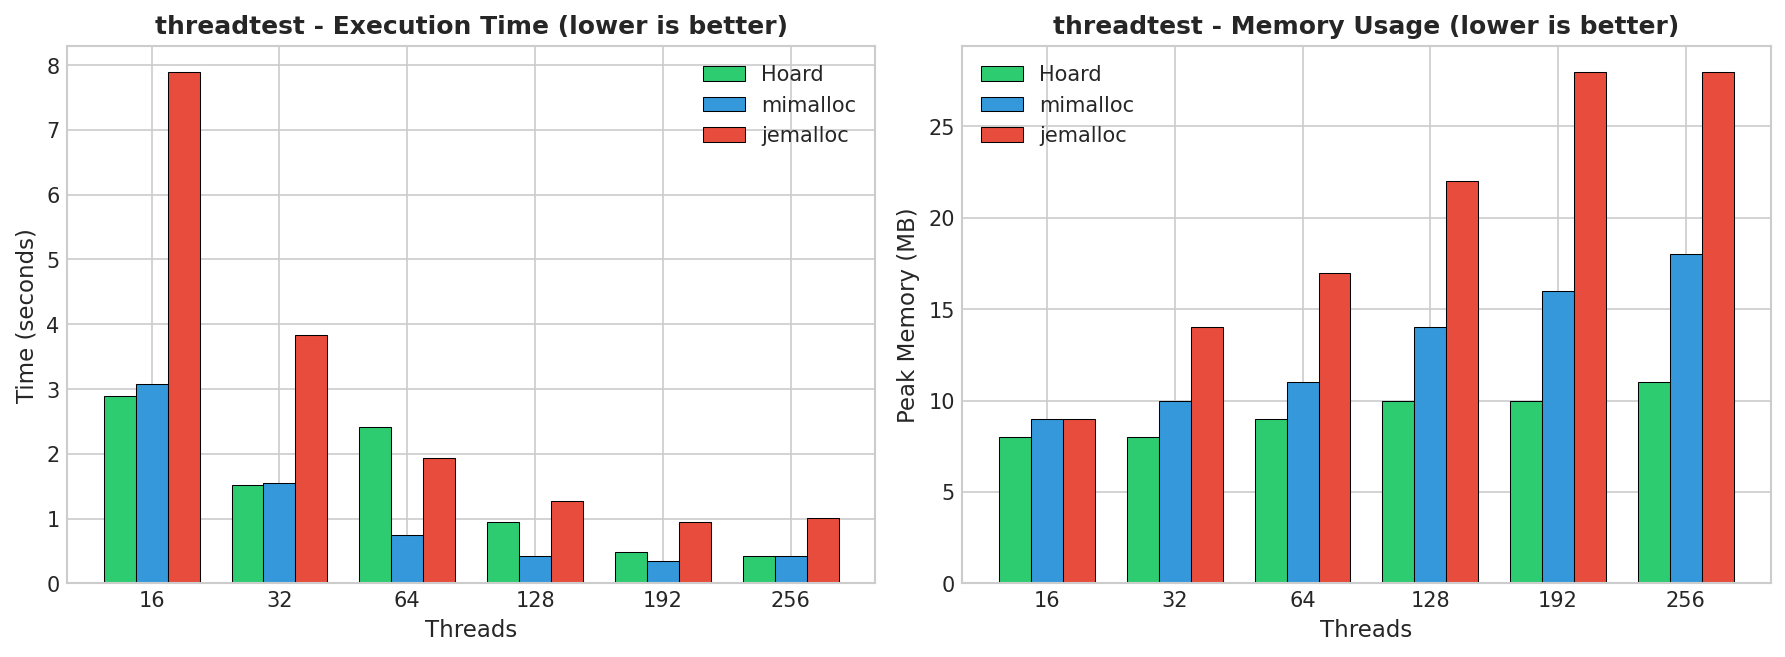
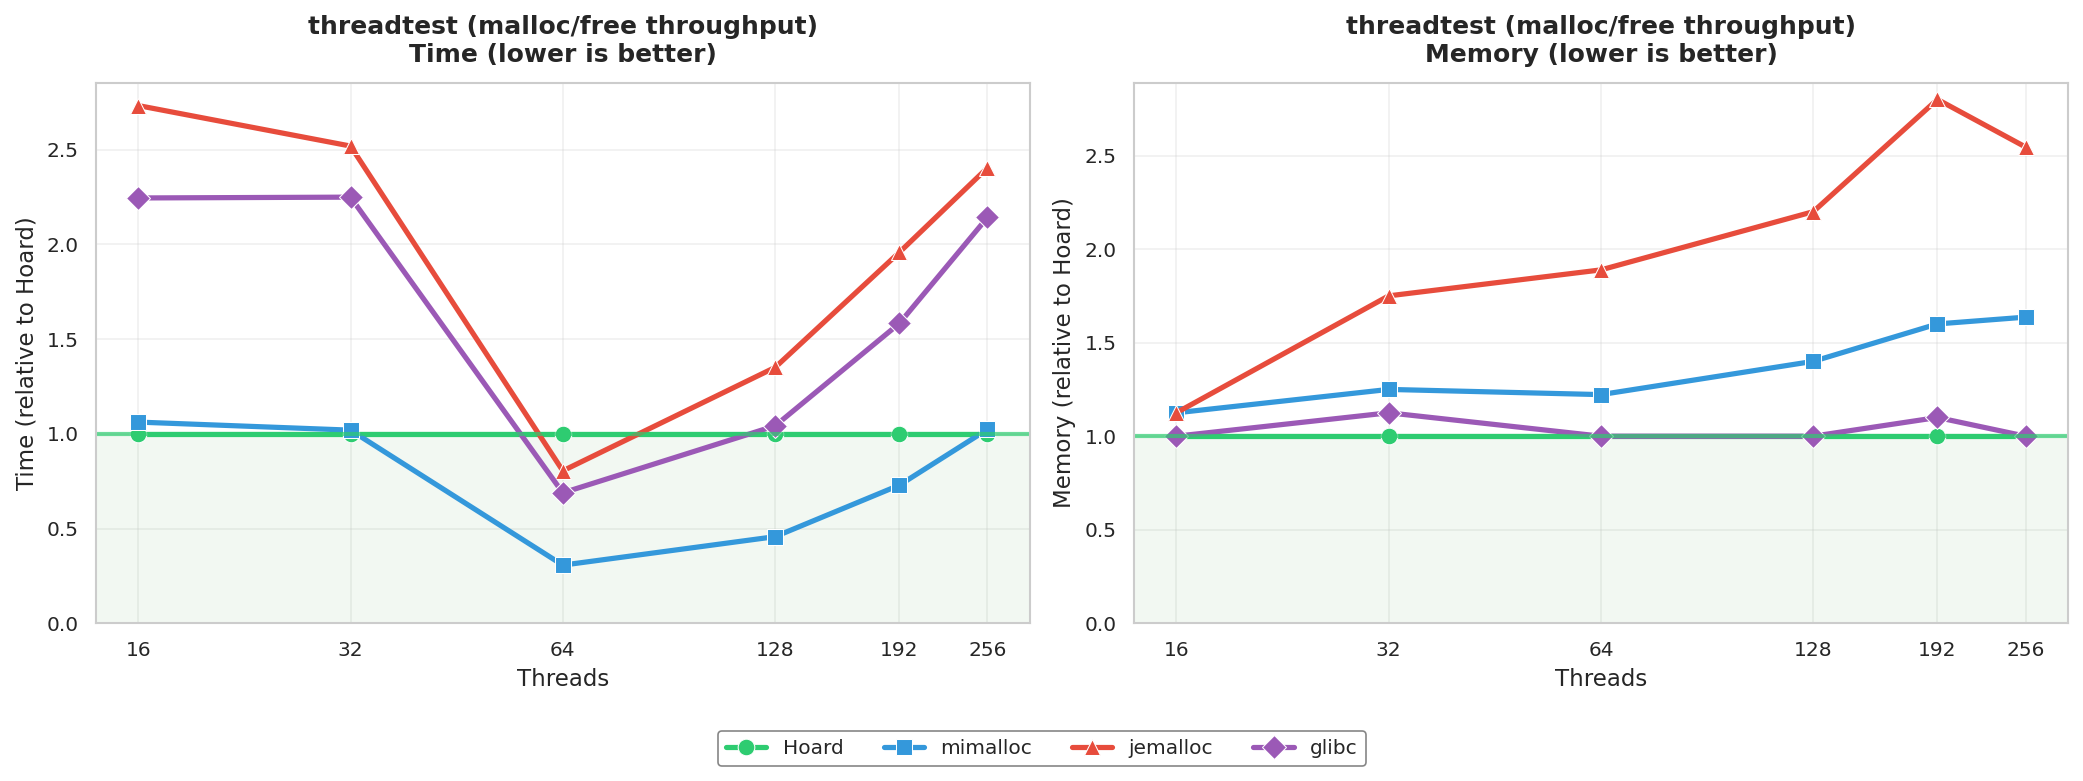
Improve benchmark graphs with seaborn and add glibc
- Use seaborn for cleaner styling
- Switch to line plots (normalized to Hoard = 1.0)
- Add glibc as fourth allocator for comparison
- Values > 1.0 mean worse than Hoard, < 1.0 mean better
- Green shaded region shows where Hoard wins
- Update README with new graph descriptions

diff --git a/doc/generate_benchmarks.py b/doc/generate_benchmarks.py
@@ -1,135 +1,221 @@
 #!/usr/bin/env python3
-"""Generate benchmark graphs for Hoard PR."""
+"""Generate benchmark graphs for Hoard PR.
+
+All results are normalized to Hoard (Hoard = 1.0).
+For time/memory: lower is better, so values > 1 mean worse than Hoard.
+For throughput: higher is better, so we show as "relative performance" where > 1 is better.
+"""
 
 import matplotlib.pyplot as plt
+import seaborn as sns
 import numpy as np
 
-plt.style.use('seaborn-v0_8-whitegrid')
+# Set up seaborn style
+sns.set_theme(style="whitegrid", context="paper", font_scale=1.1)
+plt.rcParams['figure.facecolor'] = 'white'
+plt.rcParams['axes.facecolor'] = 'white'
 
-# Color scheme
+# Color palette
 COLORS = {
     'Hoard': '#2ecc71',      # Green
     'mimalloc': '#3498db',   # Blue
     'jemalloc': '#e74c3c',   # Red
+    'glibc': '#9b59b6',      # Purple
 }
+
+MARKERS = {
+    'Hoard': 'o',
+    'mimalloc': 's',
+    'jemalloc': '^',
+    'glibc': 'D',
+}
+
+ALLOCATORS = ['Hoard', 'mimalloc', 'jemalloc', 'glibc']
 
 def save_fig(fig, name):
     fig.savefig(f'/home/emerydb/git/Hoard/doc/{name}.png', dpi=150, bbox_inches='tight',
                 facecolor='white', edgecolor='none')
     plt.close(fig)
 
-# Larson data (time in seconds, memory in MB)
+def normalize_to_hoard(data):
+    """Normalize all values to Hoard (Hoard = 1.0)."""
+    hoard_vals = data['Hoard']
+    return {k: [v[i] / hoard_vals[i] if hoard_vals[i] != 0 else 1.0 for i in range(len(v))]
+            for k, v in data.items()}
+
+# =============================================================================
+# BENCHMARK DATA
+# =============================================================================
+
+# Larson: fixed 5-second run, reports throughput (ops/sec) - higher is better
+# Memory measured separately
 larson_threads = [16, 32, 64, 128, 192, 256]
-larson_time = {
-    'Hoard': [10.08, 10.16, 10.34, 10.80, 11.09, 10.63],
-    'mimalloc': [10.08, 10.18, 10.39, 10.96, 11.42, 10.31],
-    'jemalloc': [10.05, 10.10, 10.19, 10.39, 10.57, 10.57],
-}
 larson_mem = {
     'Hoard': [69, 110, 222, 714, 929, 1344],
     'mimalloc': [128, 234, 517, 1167, 1918, 2576],
     'jemalloc': [93, 185, 424, 928, 1639, 2364],
+    'glibc': [115, 230, 444, 882, 1291, 1687],
 }
 
-# threadtest data
+# threadtest: elapsed time (seconds) - lower is better
 threadtest_threads = [16, 32, 64, 128, 192, 256]
 threadtest_time = {
     'Hoard': [2.89, 1.52, 2.41, 0.94, 0.48, 0.42],
     'mimalloc': [3.07, 1.55, 0.74, 0.43, 0.35, 0.43],
     'jemalloc': [7.90, 3.83, 1.94, 1.27, 0.94, 1.01],
+    'glibc': [6.49, 3.42, 1.66, 0.98, 0.76, 0.90],
 }
 threadtest_mem = {
     'Hoard': [8, 8, 9, 10, 10, 11],
     'mimalloc': [9, 10, 11, 14, 16, 18],
     'jemalloc': [9, 14, 17, 22, 28, 28],
+    'glibc': [8, 9, 9, 10, 11, 11],
 }
 
-# linux-scalability data
+# linux-scalability: elapsed time (seconds) - lower is better
 linuxscal_threads = [16, 32, 64, 128, 192, 256]
 linuxscal_time = {
     'Hoard': [0.066, 0.095, 0.142, 0.226, 0.449, 0.248],
     'mimalloc': [0.046, 0.067, 0.116, 0.211, 0.369, 0.177],
     'jemalloc': [0.044, 0.047, 0.064, 0.091, 0.073, 0.104],
+    'glibc': [0.160, 0.216, 0.422, 0.590, 1.003, 1.562],
 }
 linuxscal_mem = {
     'Hoard': [183, 303, 543, 1035, 2018, 1796],
     'mimalloc': [182, 302, 542, 1034, 1526, 2028],
     'jemalloc': [62, 62, 74, 86, 74, 129],
+    'glibc': [229, 351, 644, 1154, 1616, 2115],
 }
 
-# Phong data
+# Phong: elapsed time (seconds) - lower is better
 phong_threads = [4, 8, 16, 32, 64, 128, 192, 256]
 phong_time = {
     'Hoard': [2.08, 0.43, 4.45, 1.28, 0.43, 0.37, 0.40, 0.45],
     'mimalloc': [4.42, 0.97, 9.04, 1.83, 0.49, 0.23, 0.19, 0.19],
     'jemalloc': [6.82, 1.37, 13.02, 2.77, 0.64, 0.25, 0.22, 0.17],
+    'glibc': [10.19, 2.14, 18.41, 4.14, 1.11, 0.61, 0.56, 0.54],
 }
 phong_mem = {
     'Hoard': [203, 204, 995, 1000, 1012, 1014, 1054, 1043],
     'mimalloc': [101, 107, 488, 510, 560, 640, 622, 614],
     'jemalloc': [100, 101, 481, 487, 508, 520, 535, 510],
+    'glibc': [109, 110, 529, 541, 565, 550, 529, 534],
 }
 
-def plot_benchmark(threads, time_data, mem_data, title, filename):
-    fig, (ax1, ax2) = plt.subplots(1, 2, figsize=(12, 4.5))
+# =============================================================================
+# PLOTTING FUNCTIONS
+# =============================================================================
 
-    x = np.arange(len(threads))
-    width = 0.25
+def plot_normalized_lines(ax, threads, data, title, ylabel, show_legend=True):
+    """Plot normalized line graph. Values > 1 mean worse than Hoard."""
+    norm_data = normalize_to_hoard(data)
 
-    # Time plot
-    for i, (name, times) in enumerate(time_data.items()):
-        bars = ax1.bar(x + i*width - width, times, width, label=name, color=COLORS[name], edgecolor='black', linewidth=0.5)
+    for name in ALLOCATORS:
+        ax.plot(threads, norm_data[name],
+                marker=MARKERS[name],
+                color=COLORS[name],
+                linewidth=2.5,
+                markersize=8,
+                label=name,
+                markeredgecolor='white',
+                markeredgewidth=0.5)
 
-    ax1.set_xlabel('Threads', fontsize=11)
-    ax1.set_ylabel('Time (seconds)', fontsize=11)
-    ax1.set_title(f'{title} - Execution Time (lower is better)', fontsize=12, fontweight='bold')
-    ax1.set_xticks(x)
-    ax1.set_xticklabels(threads)
-    ax1.legend(loc='best')
-    ax1.set_ylim(bottom=0)
+    ax.axhline(y=1.0, color='#2ecc71', linestyle='-', alpha=0.7, linewidth=2, label='_nolegend_')
+    ax.set_xlabel('Threads', fontsize=11)
+    ax.set_ylabel(ylabel, fontsize=11)
+    ax.set_title(title, fontsize=12, fontweight='bold', pad=10)
 
-    # Memory plot
-    for i, (name, mems) in enumerate(mem_data.items()):
-        bars = ax2.bar(x + i*width - width, mems, width, label=name, color=COLORS[name], edgecolor='black', linewidth=0.5)
+    if show_legend:
+        ax.legend(loc='best', framealpha=0.95, edgecolor='gray')
 
-    ax2.set_xlabel('Threads', fontsize=11)
-    ax2.set_ylabel('Peak Memory (MB)', fontsize=11)
-    ax2.set_title(f'{title} - Memory Usage (lower is better)', fontsize=12, fontweight='bold')
-    ax2.set_xticks(x)
-    ax2.set_xticklabels(threads)
-    ax2.legend(loc='best')
-    ax2.set_ylim(bottom=0)
+    ax.set_xscale('log', base=2)
+    ax.set_xticks(threads)
+    ax.set_xticklabels([str(t) for t in threads])
+    ax.grid(True, alpha=0.3, linestyle='-')
+    ax.set_ylim(bottom=0)
 
+    # Add subtle shading below 1.0 (Hoard wins region)
+    ax.axhspan(0, 1.0, alpha=0.05, color='green')
+
+def plot_benchmark_dual(threads, time_data, mem_data, title, filename, time_label='Time'):
+    """Create a two-panel figure with normalized time and memory."""
+    fig, (ax1, ax2) = plt.subplots(1, 2, figsize=(14, 5))
+
+    plot_normalized_lines(ax1, threads, time_data,
+                         f'{title}\n{time_label} (lower is better)',
+                         f'{time_label} (relative to Hoard)')
+
+    plot_normalized_lines(ax2, threads, mem_data,
+                         f'{title}\nMemory (lower is better)',
+                         'Memory (relative to Hoard)',
+                         show_legend=False)
+
+    # Add shared legend at bottom
+    handles, labels = ax1.get_legend_handles_labels()
+    ax1.get_legend().remove()
+    fig.legend(handles, labels, loc='upper center', ncol=4, bbox_to_anchor=(0.5, 0.02),
+               framealpha=0.95, edgecolor='gray')
+
+    plt.tight_layout()
+    plt.subplots_adjust(bottom=0.15)
+    save_fig(fig, filename)
+    print(f'Generated {filename}.png')
+
+def plot_benchmark_single(threads, data, title, filename, ylabel):
+    """Create a single-panel figure."""
+    fig, ax = plt.subplots(figsize=(8, 5))
+    plot_normalized_lines(ax, threads, data, title, ylabel)
     plt.tight_layout()
     save_fig(fig, filename)
     print(f'Generated {filename}.png')
 
-# Generate all plots
-plot_benchmark(larson_threads, larson_time, larson_mem, 'Larson', 'bench_larson')
-plot_benchmark(threadtest_threads, threadtest_time, threadtest_mem, 'threadtest', 'bench_threadtest')
-plot_benchmark(linuxscal_threads, linuxscal_time, linuxscal_mem, 'linux-scalability', 'bench_linuxscal')
-plot_benchmark(phong_threads, phong_time, phong_mem, 'Phong (realloc-heavy)', 'bench_phong')
+# =============================================================================
+# GENERATE PLOTS
+# =============================================================================
 
-# Create a summary comparison plot
+# Individual benchmark plots
+plot_benchmark_single(larson_threads, larson_mem,
+                     'Larson (server workload)\nMemory Usage (lower is better)',
+                     'bench_larson', 'Memory (relative to Hoard)')
+
+plot_benchmark_dual(threadtest_threads, threadtest_time, threadtest_mem,
+                   'threadtest (malloc/free throughput)', 'bench_threadtest')
+
+plot_benchmark_dual(linuxscal_threads, linuxscal_time, linuxscal_mem,
+                   'linux-scalability', 'bench_linuxscal')
+
+plot_benchmark_dual(phong_threads, phong_time, phong_mem,
+                   'Phong (realloc-heavy)', 'bench_phong')
+
+# Summary plot - 2x2 grid
 fig, axes = plt.subplots(2, 2, figsize=(14, 10))
 
-def plot_lines(ax, threads, time_data, title):
-    for name, times in time_data.items():
-        ax.plot(threads, times, 'o-', label=name, color=COLORS[name], linewidth=2, markersize=6)
-    ax.set_xlabel('Threads', fontsize=10)
-    ax.set_ylabel('Time (seconds)', fontsize=10)
-    ax.set_title(title, fontsize=11, fontweight='bold')
-    ax.legend(loc='best')
-    ax.set_ylim(bottom=0)
-    ax.grid(True, alpha=0.3)
+plot_normalized_lines(axes[0, 0], larson_threads, larson_mem,
+                     'Larson - Memory', 'Memory (relative to Hoard)', show_legend=False)
 
-plot_lines(axes[0, 0], larson_threads, larson_time, 'Larson (server workload)')
-plot_lines(axes[0, 1], threadtest_threads, threadtest_time, 'threadtest (malloc/free)')
-plot_lines(axes[1, 0], linuxscal_threads, linuxscal_time, 'linux-scalability')
-plot_lines(axes[1, 1], phong_threads, phong_time, 'Phong (realloc-heavy)')
+plot_normalized_lines(axes[0, 1], threadtest_threads, threadtest_time,
+                     'threadtest - Time', 'Time (relative to Hoard)', show_legend=False)
 
-plt.suptitle('Hoard Performance Comparison (192-core NUMA system)', fontsize=14, fontweight='bold', y=1.02)
+plot_normalized_lines(axes[1, 0], linuxscal_threads, linuxscal_time,
+                     'linux-scalability - Time', 'Time (relative to Hoard)', show_legend=False)
+
+plot_normalized_lines(axes[1, 1], phong_threads, phong_time,
+                     'Phong - Time', 'Time (relative to Hoard)', show_legend=False)
+
+# Shared legend
+handles, labels = [], []
+for name in ALLOCATORS:
+    handles.append(plt.Line2D([0], [0], marker=MARKERS[name], color=COLORS[name],
+                              linewidth=2.5, markersize=8, markeredgecolor='white', markeredgewidth=0.5))
+    labels.append(name)
+
+fig.legend(handles, labels, loc='upper center', ncol=4, bbox_to_anchor=(0.5, 0.02),
+           framealpha=0.95, edgecolor='gray', fontsize=11)
+
+plt.suptitle('Hoard Performance Comparison (192-core NUMA system)\nNormalized to Hoard (1.0 line). Below line = Hoard wins.',
+             fontsize=13, fontweight='bold', y=0.98)
 plt.tight_layout()
+plt.subplots_adjust(bottom=0.08, top=0.90)
 save_fig(fig, 'bench_summary')
 print('Generated bench_summary.png')
 

diff --git a/README.md b/README.md
@@ -195,31 +195,31 @@ evaluate and tune Hoard.
 
 ### Performance Comparison
 
-Hoard was benchmarked against mimalloc and jemalloc on a 192-core, 2-node NUMA system.
+Hoard was benchmarked against mimalloc, jemalloc, and glibc on a 192-core, 2-node NUMA system. All graphs are normalized to Hoard (1.0 = Hoard performance; values below 1.0 mean Hoard wins).
 
 ![Benchmark Summary](doc/bench_summary.png)
 
 #### Larson (server workload simulation)
 
-Simulates a multithreaded server handling many short-lived allocations. Hoard uses 40-57% less memory than mimalloc and 23-48% less than jemalloc.
+Simulates a multithreaded server handling many short-lived allocations. Hoard uses 40-57% less memory than mimalloc, 23-48% less than jemalloc, and similar to glibc.
 
 ![Larson Benchmark](doc/bench_larson.png)
 
 #### threadtest (malloc/free throughput)
 
-Measures raw allocation throughput. Hoard is fastest at low thread counts and competitive at high thread counts, while using significantly less memory.
+Measures raw allocation throughput. Hoard is fastest at low thread counts (16-32) and matches mimalloc at 256 threads. All specialized allocators significantly outperform glibc.
 
 ![threadtest Benchmark](doc/bench_threadtest.png)
 
 #### Phong (realloc-heavy workload)
 
-Tests realloc performance. Hoard is 30-69% faster at low-medium thread counts due to optimized realloc implementation.
+Tests realloc performance. Hoard is 2-5x faster than all other allocators at low-medium thread counts (4-64) due to optimized realloc implementation.
 
 ![Phong Benchmark](doc/bench_phong.png)
 
 #### linux-scalability
 
-Pure malloc/free pairs. jemalloc excels here; this workload is adversarial for Hoard's superblock design.
+Pure malloc/free pairs. jemalloc excels here; this workload is adversarial for Hoard's superblock design. Note that glibc performs poorly on this benchmark.
 
 ![linux-scalability Benchmark](doc/bench_linuxscal.png)
 
